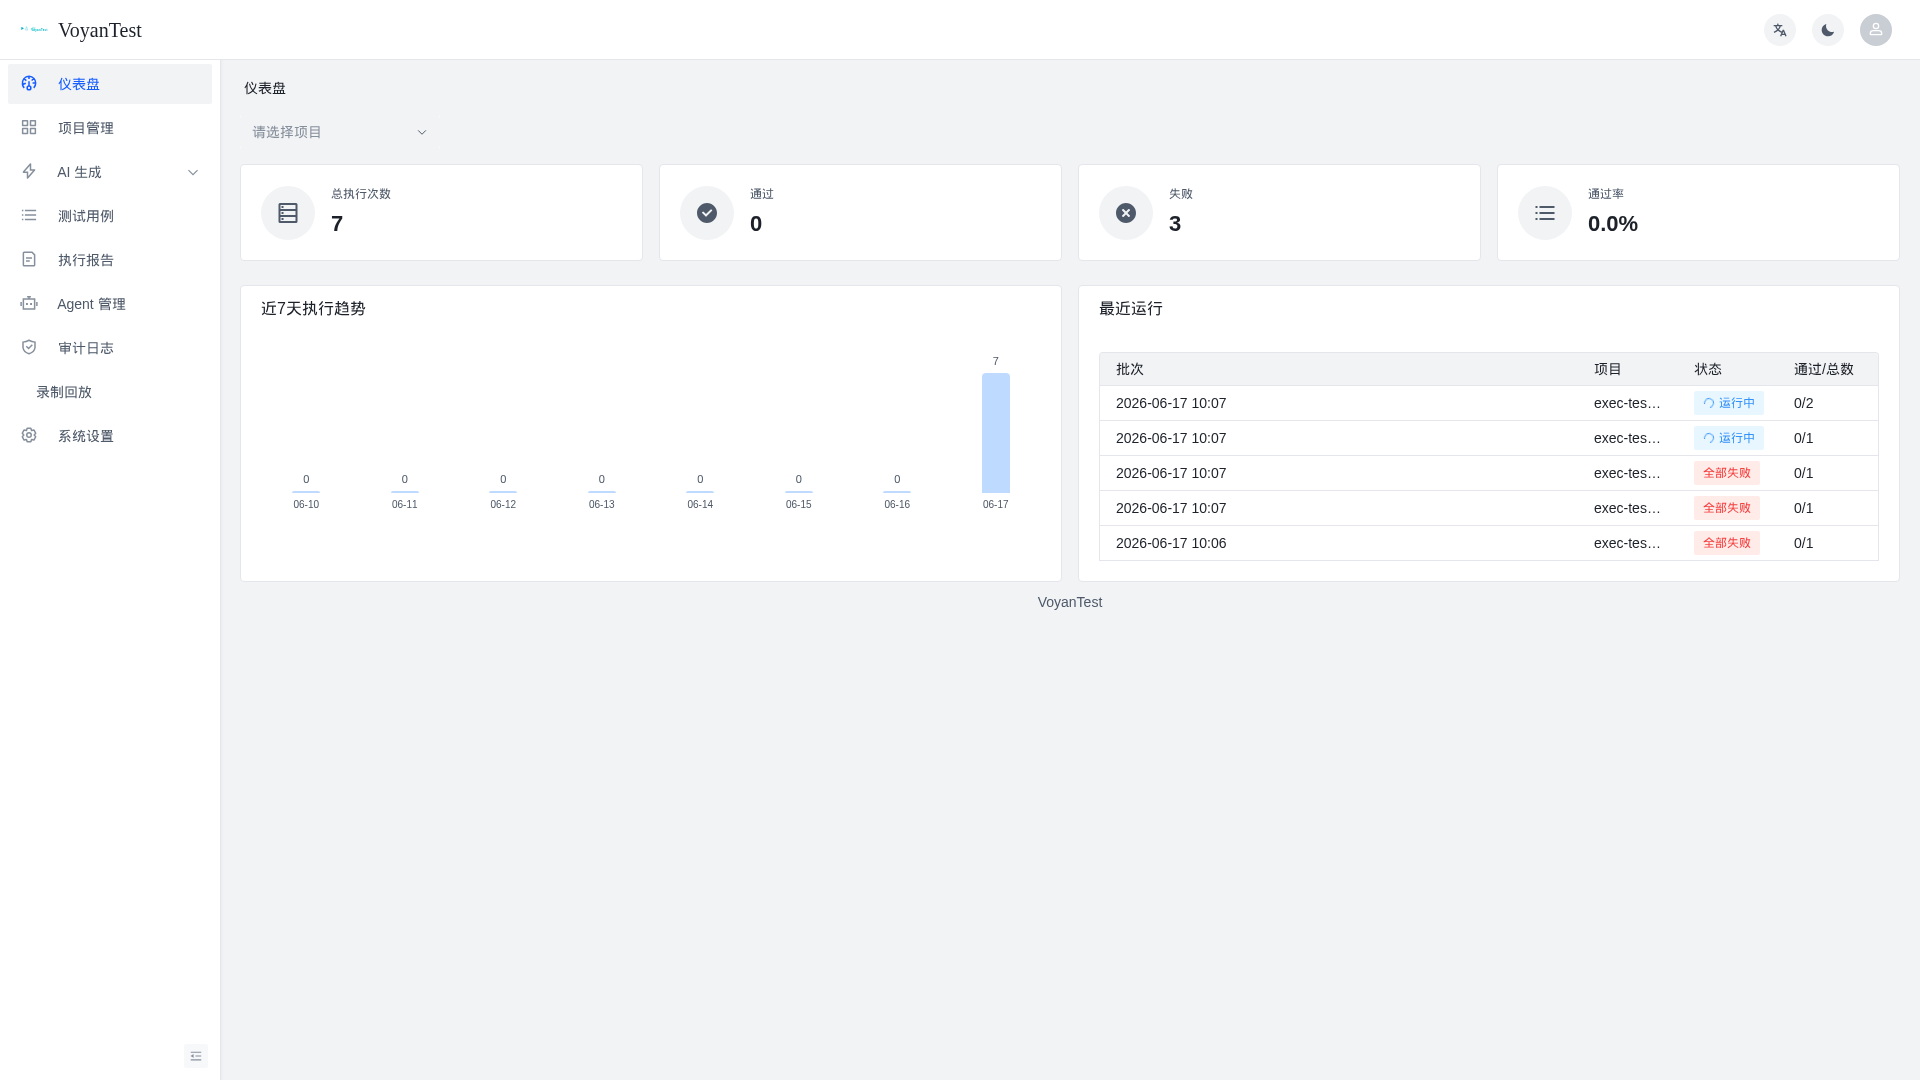
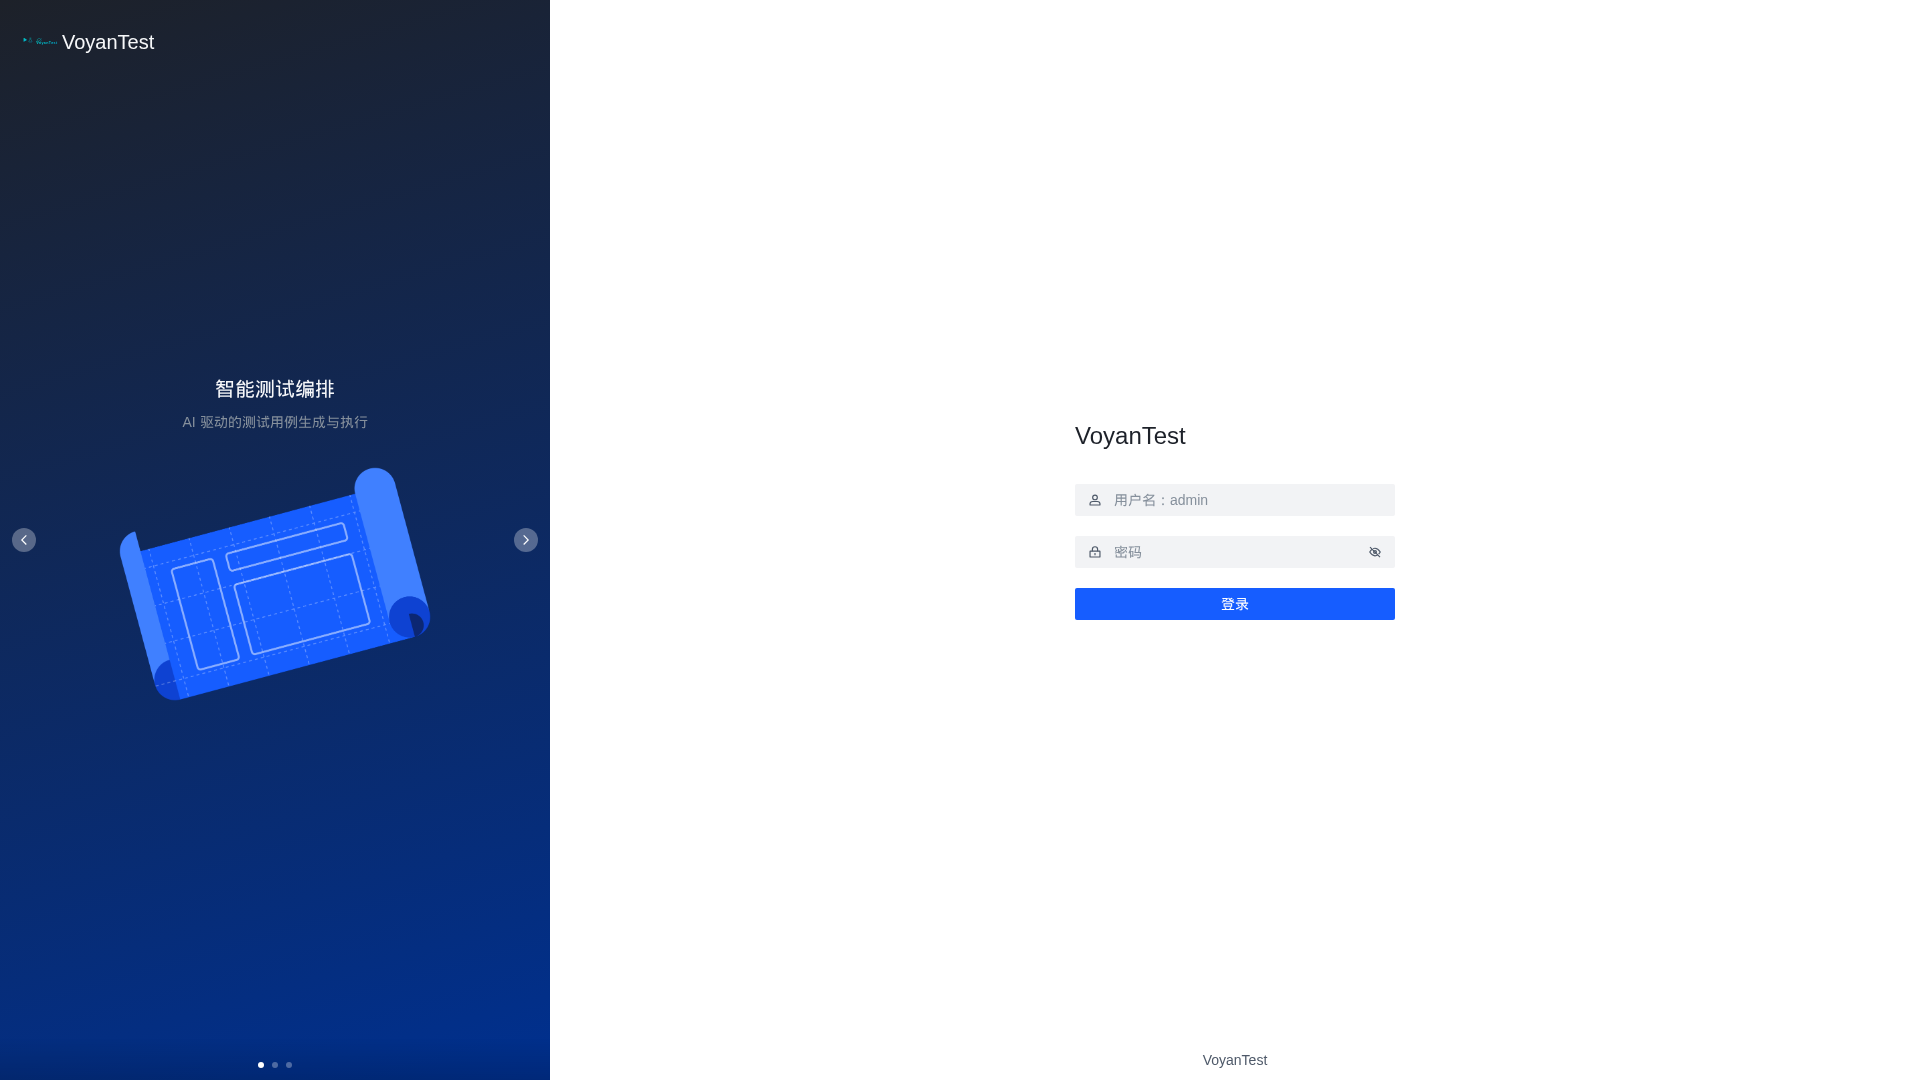
docs: 重新截图 + 新增AI生成页截图
- 全部6张截图重新拍摄（含项目选择后的测试用例页）
- 新增 AI 生成页面截图
- README 主流程增加 AI 用例生成章节

diff --git a/README.md b/README.md
@@ -105,7 +105,15 @@ uvicorn app.main:app --host 0.0.0.0 --port 8002 --reload
 |---------|-----------|
 | ![录制](docs/images/03_recordings.png) | 输入 URL → 开始录制 → 操作浏览器 → 停止 → 转换为测试步骤 |
 
-### 4. AI 配置
+### 4. AI 用例生成
+
+上传需求文档（docx/pdf/md/图片），AI 自动提取功能点并生成测试用例。
+
+| AI 生成页面 |
+|------------|
+| ![AI生成](docs/images/07_gen.png) |
+
+### 5. AI 配置
 
 执行前需在「系统设置 → AI 模型配置」填写 LLM 信息（支持 OpenAI 及兼容 API）。
 